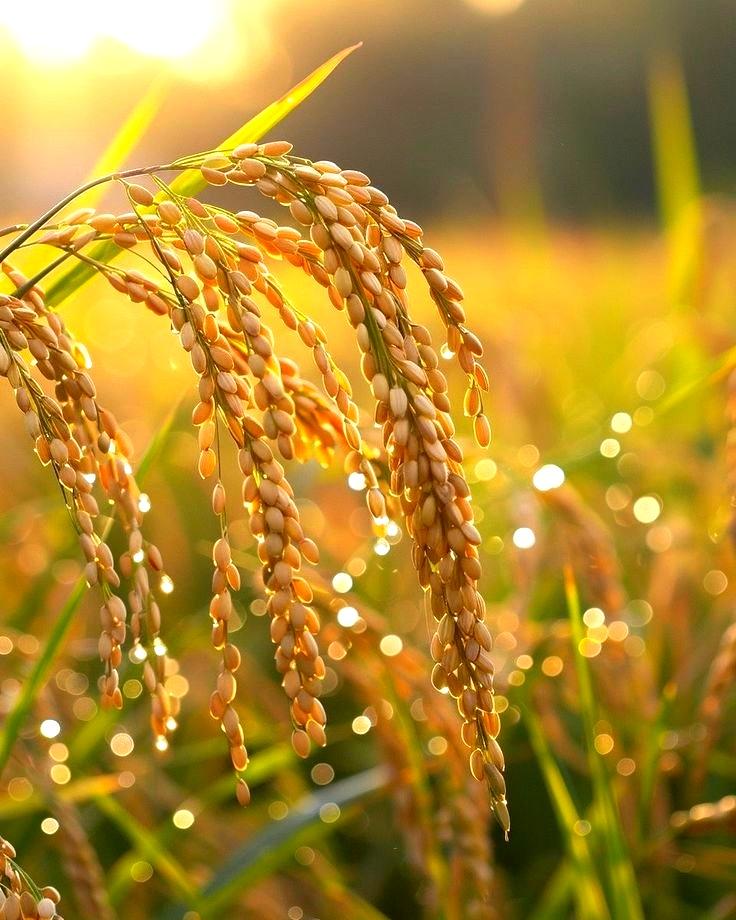
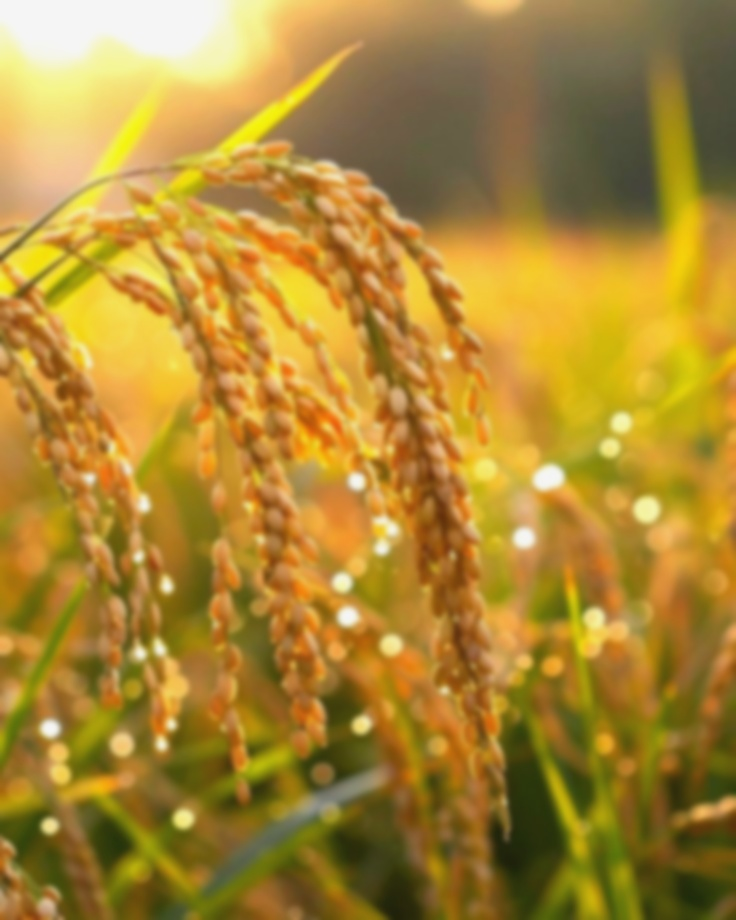
style: Lam nhe thanh dieu huong, bo vien tho, chuyen sang phong cach kinh mo tinh te khong bi choi mat

diff --git a/styles.css b/styles.css
@@ -122,19 +122,19 @@ body::before {
    ========================================================================== */
 .sidebar {
   width: var(--sidebar-width);
-  background-color: #0c331a;
+  background-color: #082313;
   background-image: 
     linear-gradient(180deg, 
-      rgba(8, 36, 18, 0.58) 0%, 
-      rgba(14, 48, 24, 0.42) 40%, 
-      rgba(20, 58, 28, 0.48) 75%, 
-      rgba(10, 32, 16, 0.65) 100%
+      rgba(8, 30, 16, 0.72) 0%, 
+      rgba(10, 36, 18, 0.64) 40%, 
+      rgba(12, 40, 20, 0.66) 75%, 
+      rgba(6, 24, 12, 0.78) 100%
     ),
     url('assets/images/bg_sidebar_rice.jpg');
   background-size: cover;
   background-position: left center;
   background-repeat: no-repeat;
-  border-right: 1px solid rgba(212, 175, 55, 0.3);
+  border-right: 1px solid rgba(255, 255, 255, 0.08);
   display: flex;
   flex-direction: column;
   position: sticky;
@@ -143,16 +143,15 @@ body::before {
   z-index: 100;
   flex-shrink: 0;
   transition: transform 0.28s cubic-bezier(0.4, 0, 0.2, 1);
-  box-shadow: 4px 0 28px rgba(0, 0, 0, 0.3);
+  box-shadow: 2px 0 20px rgba(0, 0, 0, 0.15);
 }
 
 .sidebar-header {
   padding: 16px 18px;
-  border-bottom: 1px solid rgba(212, 175, 55, 0.22);
+  border-bottom: 1px solid rgba(255, 255, 255, 0.08);
   display: flex;
   align-items: center;
-  background: rgba(0, 0, 0, 0.25);
-  backdrop-filter: blur(6px);
+  background: transparent;
 }
 
 .brand-info {
@@ -165,24 +164,24 @@ body::before {
   width: 36px;
   height: 36px;
   border-radius: 10px;
-  background: linear-gradient(135deg, #16a34a 0%, #0e4d2d 100%);
+  background: linear-gradient(135deg, rgba(22, 163, 74, 0.8) 0%, rgba(14, 77, 45, 0.9) 100%);
   color: #fff;
   display: flex;
   align-items: center;
   justify-content: center;
   font-size: 19px;
-  box-shadow: 0 4px 10px rgba(0, 0, 0, 0.4);
-  border: 1px solid rgba(212, 175, 55, 0.5);
+  border: 1px solid rgba(255, 255, 255, 0.15);
+  box-shadow: 0 2px 8px rgba(0, 0, 0, 0.25);
   flex-shrink: 0;
 }
 
 .brand-info h2 {
   font-size: 17.5px;
-  font-weight: 900;
+  font-weight: 800;
   color: #ffffff;
-  letter-spacing: 0.04em;
+  letter-spacing: 0.03em;
   line-height: 1.15;
-  text-shadow: 0 2px 4px rgba(0, 0, 0, 0.6);
+  text-shadow: 0 1px 3px rgba(0, 0, 0, 0.5);
 }
 
 .nav-menu {
@@ -190,7 +189,7 @@ body::before {
   padding: 12px 10px;
   display: flex;
   flex-direction: column;
-  gap: 5px;
+  gap: 3px;
   overflow-y: auto;
   flex: 1;
 }
@@ -200,81 +199,76 @@ body::before {
   width: 4px;
 }
 .nav-menu::-webkit-scrollbar-thumb {
-  background: rgba(212, 175, 55, 0.3);
+  background: rgba(255, 255, 255, 0.15);
   border-radius: 4px;
 }
 
+/* Nav Item Button - Mềm mại, nhạt, không viền thô chọi mắt */
 .nav-item-btn {
   display: flex;
   align-items: center;
   gap: 10px;
   width: 100%;
-  padding: 10px 12px;
-  border-radius: var(--radius-sm);
-  border: 1px solid rgba(255, 255, 255, 0.12);
-  background: rgba(255, 255, 255, 0.08);
-  backdrop-filter: blur(8px);
-  -webkit-backdrop-filter: blur(8px);
-  color: #f0fdf4;
+  padding: 9.5px 12px;
+  border-radius: 8px;
+  border: 1px solid transparent;
+  background: transparent;
+  color: #e2f0e6;
   font-family: var(--font-sans);
   font-size: 13.5px;
-  font-weight: 700;
+  font-weight: 600;
   text-align: left;
   cursor: pointer;
-  transition: var(--transition);
+  transition: all 0.2s ease;
   position: relative;
-  box-shadow: 0 1px 3px rgba(0, 0, 0, 0.12);
+  text-shadow: 0 1px 2px rgba(0, 0, 0, 0.4);
 }
 
 .nav-item-btn:hover {
-  background-color: rgba(255, 255, 255, 0.18);
+  background: rgba(255, 255, 255, 0.08);
   color: #ffffff;
-  border-color: rgba(212, 175, 55, 0.45);
-  box-shadow: 0 4px 12px rgba(0, 0, 0, 0.25);
+  border-color: rgba(255, 255, 255, 0.08);
   transform: translateX(2px);
 }
 
+/* Active Item - Kính mờ xanh êm dịu, không viền vàng chói, không dải cam thô */
 .nav-item-btn.active {
-  background: linear-gradient(135deg, rgba(22, 163, 74, 0.95) 0%, rgba(14, 77, 45, 0.98) 100%);
+  background: linear-gradient(135deg, rgba(28, 116, 48, 0.72) 0%, rgba(14, 77, 45, 0.82) 100%);
+  backdrop-filter: blur(8px);
+  -webkit-backdrop-filter: blur(8px);
   color: #ffffff;
-  border: 1.5px solid #d4af37;
-  font-weight: 800;
-  box-shadow: 0 4px 16px rgba(0, 0, 0, 0.35);
+  font-weight: 700;
+  border: 1px solid rgba(255, 255, 255, 0.18);
+  box-shadow: 0 2px 8px rgba(0, 0, 0, 0.2);
 }
 
 .nav-item-btn.active::before {
-  content: '';
-  position: absolute;
-  left: 0;
-  top: 15%;
-  bottom: 15%;
-  width: 4px;
-  background: #f59e0b;
-  border-radius: 0 4px 4px 0;
-  box-shadow: 0 0 10px rgba(245, 158, 11, 0.9);
-}
-
-.nav-item-btn.active .nav-icon {
-  transform: scale(1.15);
+  display: none;
 }
 
 .nav-icon {
   font-size: 15px;
   width: 20px;
   text-align: center;
+  opacity: 0.92;
   transition: transform 0.2s ease;
+}
+
+.nav-item-btn.active .nav-icon {
+  transform: scale(1.1);
+  opacity: 1;
 }
 
 .sidebar-footer {
   margin-top: auto;
   padding: 10px 14px;
-  border-top: 1px solid rgba(212, 175, 55, 0.22);
+  border-top: 1px solid rgba(255, 255, 255, 0.08);
   font-size: 11.5px;
-  color: #d6f2e1;
-  background: rgba(0, 0, 0, 0.3);
+  color: rgba(214, 242, 225, 0.75);
+  background: transparent;
   line-height: 1.35;
   text-align: center;
-  font-weight: 700;
+  font-weight: 600;
 }
 
 /* ==========================================================================

diff --git a/index.html b/index.html
@@ -19,7 +19,7 @@
   <link rel="preconnect" href="https://fonts.googleapis.com">
   <link rel="preconnect" href="https://fonts.gstatic.com" crossorigin>
   <link href="https://fonts.googleapis.com/css2?family=Be+Vietnam+Pro:ital,wght@0,400;0,500;0,600;0,700;0,800;0,900;1,400;1,600&family=JetBrains+Mono:wght@600;700&display=swap" rel="stylesheet">
-  <link rel="stylesheet" href="styles.css?v=20261103-v12">
+  <link rel="stylesheet" href="styles.css?v=20261103-v13">
 </head>
 <body>
   <!-- Overlay for Mobile Sidebar Drawer -->
@@ -196,7 +196,7 @@
     </div>
   </div>
 
-  <script src="data.js?v=20261103-v12"></script>
-  <script src="app.js?v=20261103-v12"></script>
+  <script src="data.js?v=20261103-v13"></script>
+  <script src="app.js?v=20261103-v13"></script>
 </body>
 </html>
